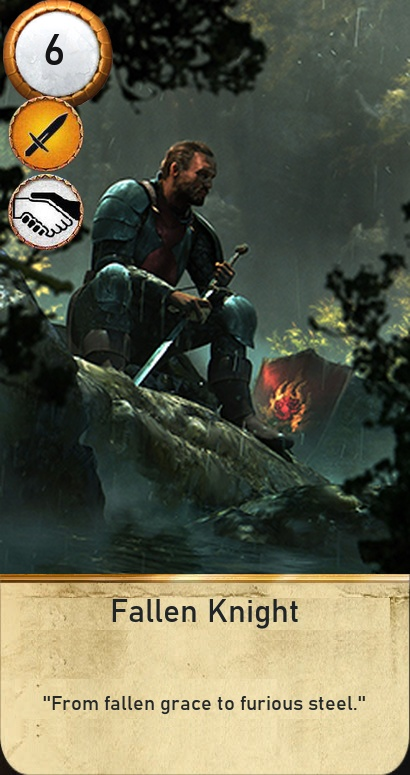
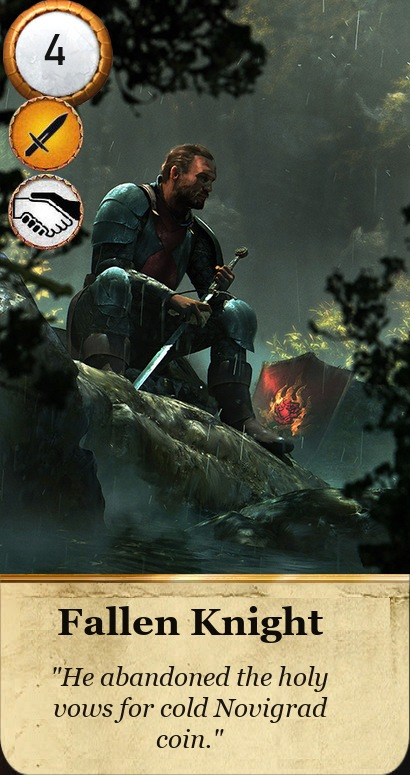
feat(gwent): add 42 new cards across all factions from Gwent standalone (v121)

diff --git a/games/gwent/cards.js b/games/gwent/cards.js
@@ -385,5 +385,47 @@ var card_dict = JSON.parse(
 + ', {"name": "Gudrun Bjornsdottir - Pirate Queen", "nameRu": "Гудрун Бьорнсдоттир", "id": "", "deck": "syndicate", "row": "leader", "strength": "", "ability": "gudrun_plunder", "filename": "gudrun_leader", "count": "1"}'
 + ', {"name": "Cleaver - Carlo Varese", "nameRu": "Тесак (Карл Варезе)", "id": "", "deck": "syndicate", "row": "leader", "strength": "", "ability": "cleaver_cudgel", "filename": "cleaver_leader", "count": "1"}'
 + ', {"name": "Sigi Reuven - Mastermind", "nameRu": "Сиги Ройвен", "id": "", "deck": "syndicate", "row": "leader", "strength": "", "ability": "sigi_mastermind", "filename": "sigi_reuven_leader", "count": "1"}'
++ ', {"name": "Auckes", "nameRu": "Эган", "id": "", "deck": "nilfgaard", "row": "close", "strength": "6", "ability": "scorch_c", "filename": "auckes", "count": "1"}'
++ ', {"name": "Serrit", "nameRu": "Зеррит", "id": "", "deck": "nilfgaard", "row": "close", "strength": "6", "ability": "bond", "filename": "serrat", "count": "1"}'
++ ', {"name": "Ramon Tyrconnel", "nameRu": "Рамон Тырконнель", "id": "", "deck": "nilfgaard", "row": "close", "strength": "8", "ability": "hero morale", "filename": "ramon_tyrconnel", "count": "1"}'
++ ', {"name": "Impera Enforcers", "nameRu": "Боец «Импера»", "id": "", "deck": "nilfgaard", "row": "ranged", "strength": "4", "ability": "bond", "filename": "impera_enforcers", "count": "3"}'
++ ', {"name": "Daerlan Soldier", "nameRu": "Даэрлянский солдат", "id": "", "deck": "nilfgaard", "row": "close", "strength": "3", "ability": "muster", "filename": "daerlan_soldier", "count": "3"}'
++ ', {"name": "Roderick of Dun Tynne", "nameRu": "Родерик из Дун Тынне", "id": "", "deck": "nilfgaard", "row": "close", "strength": "4", "ability": "spy", "filename": "roderick_dun_tynne", "count": "1"}'
++ ', {"name": "Ronvid the Incessant", "nameRu": "Ронвид Непреклонный", "id": "", "deck": "realms", "row": "close", "strength": "2", "ability": "muster", "filename": "ronvid_the_incessant", "count": "3"}'
++ ', {"name": "Kaedweni Knight", "nameRu": "Каэдвенский рыцарь", "id": "", "deck": "realms", "row": "close", "strength": "4", "ability": "bond", "filename": "kaedweni_knight", "count": "3"}'
++ ', {"name": "Reinforced Trebuchet", "nameRu": "Усиленный требушет", "id": "", "deck": "realms", "row": "siege", "strength": "6", "ability": "scorch_s", "filename": "reinforced_trebuchet", "count": "2"}'
++ ', {"name": "Cintrian Envoy", "nameRu": "Посланница из Цинтры", "id": "", "deck": "realms", "row": "ranged", "strength": "3", "ability": "morale", "filename": "cintrian_envoy", "count": "2"}'
++ ', {"name": "Vincent Meis", "nameRu": "Винсент Мэйс", "id": "", "deck": "realms", "row": "close", "strength": "8", "ability": "hero", "filename": "vincent_meis", "count": "1"}'
++ ', {"name": "Radovid\'s Royal Guard", "nameRu": "Стража Радовида", "id": "", "deck": "realms", "row": "close", "strength": "3", "ability": "bond", "filename": "radovids_royal_guard", "count": "3"}'
++ ', {"name": "Yarpen Zigrin", "nameRu": "Ярпен Зигрин", "id": "", "deck": "scoiatael", "row": "close", "strength": "8", "ability": "hero", "filename": "yarpen_zigrin", "count": "1"}'
++ ', {"name": "Mahakam Marauder", "nameRu": "Мародер из Махакама", "id": "", "deck": "scoiatael", "row": "close", "strength": "4", "ability": "bond", "filename": "mahakam_marauder", "count": "3"}'
++ ', {"name": "Dol Blathanna Sentry", "nameRu": "Дол Блатанна: часовой", "id": "", "deck": "scoiatael", "row": "ranged", "strength": "3", "ability": "morale", "filename": "dol_blathanna_sentry", "count": "3"}'
++ ', {"name": "Elven Swordmaster", "nameRu": "Эльфский мастер меча", "id": "", "deck": "scoiatael", "row": "close", "strength": "3", "ability": "bond", "filename": "elven_swordmaster", "count": "3"}'
++ ', {"name": "Dryad Fledgling", "nameRu": "Молодая дриада", "id": "", "deck": "scoiatael", "row": "agile", "strength": "3", "ability": "muster", "filename": "dryad_fledgling", "count": "3"}'
++ ', {"name": "Treant Mantis", "nameRu": "Древень-богомол", "id": "", "deck": "scoiatael", "row": "agile", "strength": "7", "ability": "scorch_c", "filename": "treant_mantis", "count": "1"}'
++ ', {"name": "Garkain", "nameRu": "Гаркаин", "id": "", "deck": "monsters", "row": "close", "strength": "4", "ability": "bond", "filename": "garkain", "count": "3"}'
++ ', {"name": "Fleder", "nameRu": "Фледер", "id": "", "deck": "monsters", "row": "close", "strength": "3", "ability": "muster", "filename": "fleder", "count": "3"}'
++ ', {"name": "Alp", "nameRu": "Альп", "id": "", "deck": "monsters", "row": "close", "strength": "5", "ability": "scorch_c", "filename": "alp", "count": "2"}'
++ ', {"name": "Endrega Larva", "nameRu": "Личинка эндриаги", "id": "", "deck": "monsters", "row": "close", "strength": "2", "ability": "bond", "filename": "endrega_larva", "count": "3"}'
++ ', {"name": "Ice Giant", "nameRu": "Ледяной великан", "id": "", "deck": "monsters", "row": "siege", "strength": "8", "ability": "morale", "filename": "ice_giant", "count": "1"}'
++ ', {"name": "Barghest", "nameRu": "Баргест", "id": "", "deck": "monsters", "row": "close", "strength": "3", "ability": "bond", "filename": "barghest", "count": "3"}'
++ ', {"name": "An Craite Armorsmith", "nameRu": "Ан Крайт: кузнец", "id": "", "deck": "skellige", "row": "close", "strength": "3", "ability": "morale", "filename": "an_craite_armorsmith", "count": "3"}'
++ ', {"name": "Dimun Smuggler", "nameRu": "Димун: контрабандист", "id": "", "deck": "skellige", "row": "close", "strength": "4", "ability": "bond", "filename": "dimun_smuggler", "count": "3"}'
++ ', {"name": "Drummond Shieldmaiden", "nameRu": "Друммонд: щитоносец", "id": "", "deck": "skellige", "row": "close", "strength": "3", "ability": "muster", "filename": "drummond_shieldmaiden", "count": "3"}'
++ ', {"name": "Svalblod Butcher", "nameRu": "Душегуб Свальблода", "id": "", "deck": "skellige", "row": "close", "strength": "4", "ability": "berserker", "filename": "svalblod_butcher", "count": "3"}'
++ ', {"name": "Heymaey Herbalist", "nameRu": "Хэймэй: травница", "id": "", "deck": "skellige", "row": "ranged", "strength": "2", "ability": "medic", "filename": "heymaey_herbalist", "count": "2"}'
++ ', {"name": "Giant Boar", "nameRu": "Огромный кабан", "id": "", "deck": "skellige", "row": "close", "strength": "7", "ability": "scorch_c", "filename": "giant_boar", "count": "1"}'
++ ', {"name": "Igor the Hook", "nameRu": "Игорь Крюк", "id": "", "deck": "syndicate", "row": "close", "strength": "6", "ability": "morale", "filename": "igor_the_hook", "count": "1"}'
++ ', {"name": "Sea Jackal", "nameRu": "Морская гиена", "id": "", "deck": "syndicate", "row": "close", "strength": "4", "ability": "bond", "filename": "sea_jackal", "count": "3"}'
++ ', {"name": "Fallen Knight", "nameRu": "Падший рыцарь", "id": "", "deck": "syndicate", "row": "close", "strength": "4", "ability": "bond", "filename": "fallen_knight", "count": "3"}'
++ ', {"name": "Graden", "nameRu": "Граден", "id": "", "deck": "syndicate", "row": "ranged", "strength": "6", "ability": "scorch_r", "filename": "graden", "count": "1"}'
++ ', {"name": "Shady Vendor", "nameRu": "Ушлый торговец", "id": "", "deck": "syndicate", "row": "ranged", "strength": "3", "ability": "medic", "filename": "shady_vendor", "count": "2"}'
++ ', {"name": "Mutant Killer", "nameRu": "Мутант-убийца", "id": "", "deck": "syndicate", "row": "close", "strength": "5", "ability": "bond", "filename": "mutant_killer", "count": "3"}'
++ ', {"name": "Angoulême", "nameRu": "Ангулема", "id": "", "deck": "neutral", "row": "close", "strength": "8", "ability": "hero", "filename": "angouleme", "count": "1"}'
++ ', {"name": "Black Rayla", "nameRu": "Черная Райла", "id": "", "deck": "neutral", "row": "ranged", "strength": "7", "ability": "scorch_r", "filename": "black_rayla", "count": "1"}'
++ ', {"name": "Roach", "nameRu": "Плотва", "id": "", "deck": "neutral", "row": "agile", "strength": "4", "ability": "muster", "filename": "roach", "count": "1"}'
++ ', {"name": "Knickers", "nameRu": "Панталон", "id": "", "deck": "neutral", "row": "close", "strength": "3", "ability": "morale", "filename": "knickers", "count": "1"}'
++ ', {"name": "Gascon", "nameRu": "Гаскон", "id": "", "deck": "neutral", "row": "agile", "strength": "5", "ability": "spy", "filename": "gascon", "count": "1"}'
++ ', {"name": "Iris von Everec", "nameRu": "Ирис фон Эверек", "id": "", "deck": "neutral", "row": "siege", "strength": "4", "ability": "medic", "filename": "iris_von_everec", "count": "1"}'
 + ']'
 );

diff --git a/games/gwent/index.html b/games/gwent/index.html
@@ -355,13 +355,13 @@
 <div data-title="Toggle sound effects" id="toggle-sfx" class="center deck-menu settings-button"><img src="svg/sfx.svg"></img></div>
 <div data-title="Toggle game messages" id="toggle-notifications" class="center deck-menu settings-button"><img src="svg/notification.svg"></img></div>
 
-<script type="text/javascript" src="common.js?v=120"></script>
-<script type="text/javascript" src="cards.js?v=120"></script>
-<script type="text/javascript" src="decks.js?v=120"></script>
-<script type="text/javascript" src="abilities.js?v=120"></script>
-<script type="text/javascript" src="factions.js?v=120"></script>
+<script type="text/javascript" src="common.js?v=121"></script>
+<script type="text/javascript" src="cards.js?v=121"></script>
+<script type="text/javascript" src="decks.js?v=121"></script>
+<script type="text/javascript" src="abilities.js?v=121"></script>
+<script type="text/javascript" src="factions.js?v=121"></script>
 <script src="https://www.youtube.com/iframe_api"></script>
-<script type="text/javascript" src="gwent.js?v=120"></script>
+<script type="text/javascript" src="gwent.js?v=121"></script>
 </body>
 
 </html>

diff --git a/sw.js b/sw.js
@@ -1,4 +1,4 @@
-const CACHE_NAME = 'compendium-cache-v120';
+const CACHE_NAME = 'compendium-cache-v121';
 const APP_SHELL = [
   './',
   './index.html',
